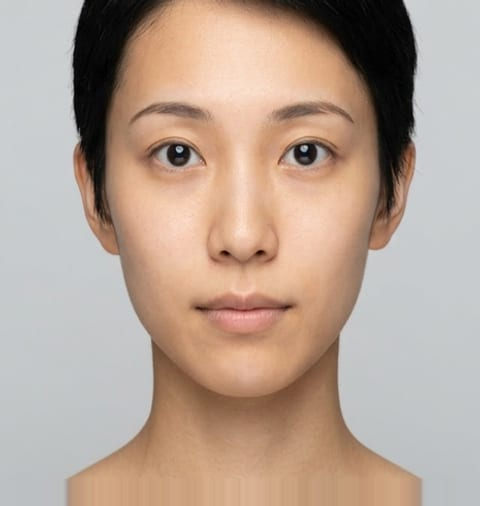
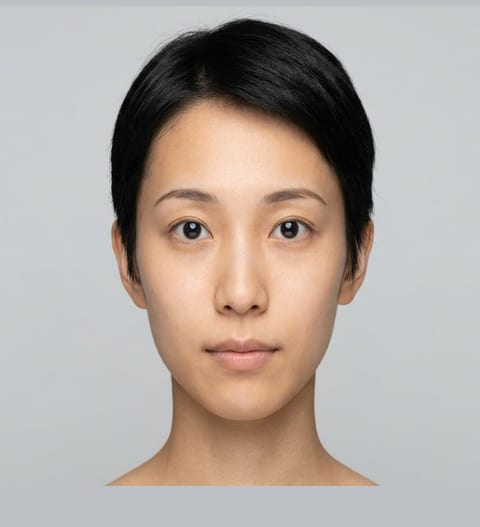
頭が切れないよう切り出しを作り直し、生成する人物を若くかわいい方向にする
切り出しの上端で頭が平らに切れている画像が複数あった。両目の間隔から
頭頂を見積もっていたため、髪型によって外していた。

- 背景が無地であることを利用して頭頂の位置を画素から実測し、そこを基準に
  切り出すようにした。24枚すべてで人物が上端に接しなくなった
- はみ出す分を縁の引き伸ばしではなく背景色で埋めるようにした。無地背景
  なら継ぎ目が出ないため、枠を画像の外まで広げられる
- 元画像の時点で頭が切れていた2枚は復元できないので同梱プールから外した
  （22枚）
- 生成プロンプトの年齢を18〜28歳に狭め、若くかわいい雰囲気の指定を
  加えた。--vibe neutral で従来どおりにもできる。年齢を完全に揃えると
  「顔立ちの印象」の軸が測れなくなるため幅は残している

22枚で通し確認し、髪の長さ・目の大きさ・唇の厚さ・目尻の角度の4軸すべてで
狙った項目が重視度90〜95%で1位になることを確認した。

Claude-Session: https://claude.ai/code/session_012j7ExUWE5BhnoC3YJwj22k

diff --git a/src/measure.js b/src/measure.js
@@ -100,19 +100,17 @@ export function samplePatch(px, W, H, cx, cy, r, stride = 3) {
  * 広いほど頭と肩がよく入るが、画像に収まらなければ意味がないので、
  * 収まる範囲でできるだけ広い枠を選ぶ。単位は両目間距離 d。
  */
-export function chooseBox(geo, W, H) {
-  const make = (mult) => {
-    const box = Math.round(geo._d * mult);
-    const ox = Math.round(geo._eyeMid.x - box / 2);
-    const oy = Math.round(geo._eyeMid.y - box * 0.30);
-    const pad = Math.max(-ox, -oy, ox + box - W, oy + box - H, 0);
-    return { box, ox, oy, pad, mult };
-  };
-  for (const mult of [6.6, 5.8, 5.0, 4.4, 3.8, 3.2]) {
-    const c = make(mult);
-    if (c.pad <= c.box * 0.08) return c;
-  }
-  return make(3.2);   // どれも収まらなければ最小の枠。はみ出し分は呼び出し側で埋める。
+export function chooseBox(geo, W, H, headTop = null) {
+  const d = geo._d;
+  // 頭頂が実測できていればそこを基準にする。できなければ両目の間隔から見積もる。
+  const top = Math.round((headTop ?? (geo._eyeMid.y - 1.75 * d)) - d * 0.16);
+  // あごの下も入れておく（髪の長さは別に元画像で測るが、見た目として肩まで欲しい）
+  const need = (geo._chin.y + d * 0.95) - top;
+  const box = Math.round(Math.min(d * 6.6, Math.max(need, d * 4.0)));
+  const ox = Math.round(geo._eyeMid.x - box / 2);
+  const oy = top;
+  const pad = Math.max(-ox, -oy, ox + box - W, oy + box - H, 0);
+  return { box, ox, oy, pad };
 }
 
 /**
@@ -206,12 +204,28 @@ export function measurePixels(px, W, H, geo, stride = 3) {
   // 画像の下端まで髪が続いていた場合は打ち切り（実際はもっと長い可能性がある）
   const censored = measurable && lastHairRow >= hy1 - 1;
 
+  // 頭頂の位置を実測する。両目の間隔からの推定では髪型によって外れるため、
+  // 背景が無地であることを利用して、上から見て最初に人物が現れる行を探す。
+  let headTop = null;
+  if (plainBg) {
+    const sx = Math.max(0, Math.round(eyeMid.x - 1.7 * d));
+    const ex = Math.min(W, Math.round(eyeMid.x + 1.7 * d));
+    const limit = Math.min(H, Math.round(eyeMid.y));
+    outer: for (let y = 0; y < limit; y++) {
+      let run = 0;
+      for (let x = sx; x < ex; x++) {
+        const i = (y * W + x) * stride;
+        if (!near(i, bg, 70)) { if (++run >= 4) { headTop = y; break outer; } } else run = 0;
+      }
+    }
+  }
+
   return {
     skinTone: -lum(skin.r, skin.g, skin.b),                 // 高いほど小麦肌
     hairColor: hair ? lum(hair.r, hair.g, hair.b) : null,   // 高いほど明るい髪
     hairLength: measurable ? extent : null,                 // あご下に伸びている長さ（両目間距離を1とする）
     _skin: skin, _hair: hair, _bg: bg, _hairProbe: hairProbe,
     _scan: { x0: hx0, x1: hx1, y0: hy0, y1: hy1, yHair: lastHairRow },
-    _plainBg: plainBg, _availDepth: availDepth, _censored: censored,
+    _plainBg: plainBg, _availDepth: availDepth, _censored: censored, _headTop: headTop,
   };
 }
